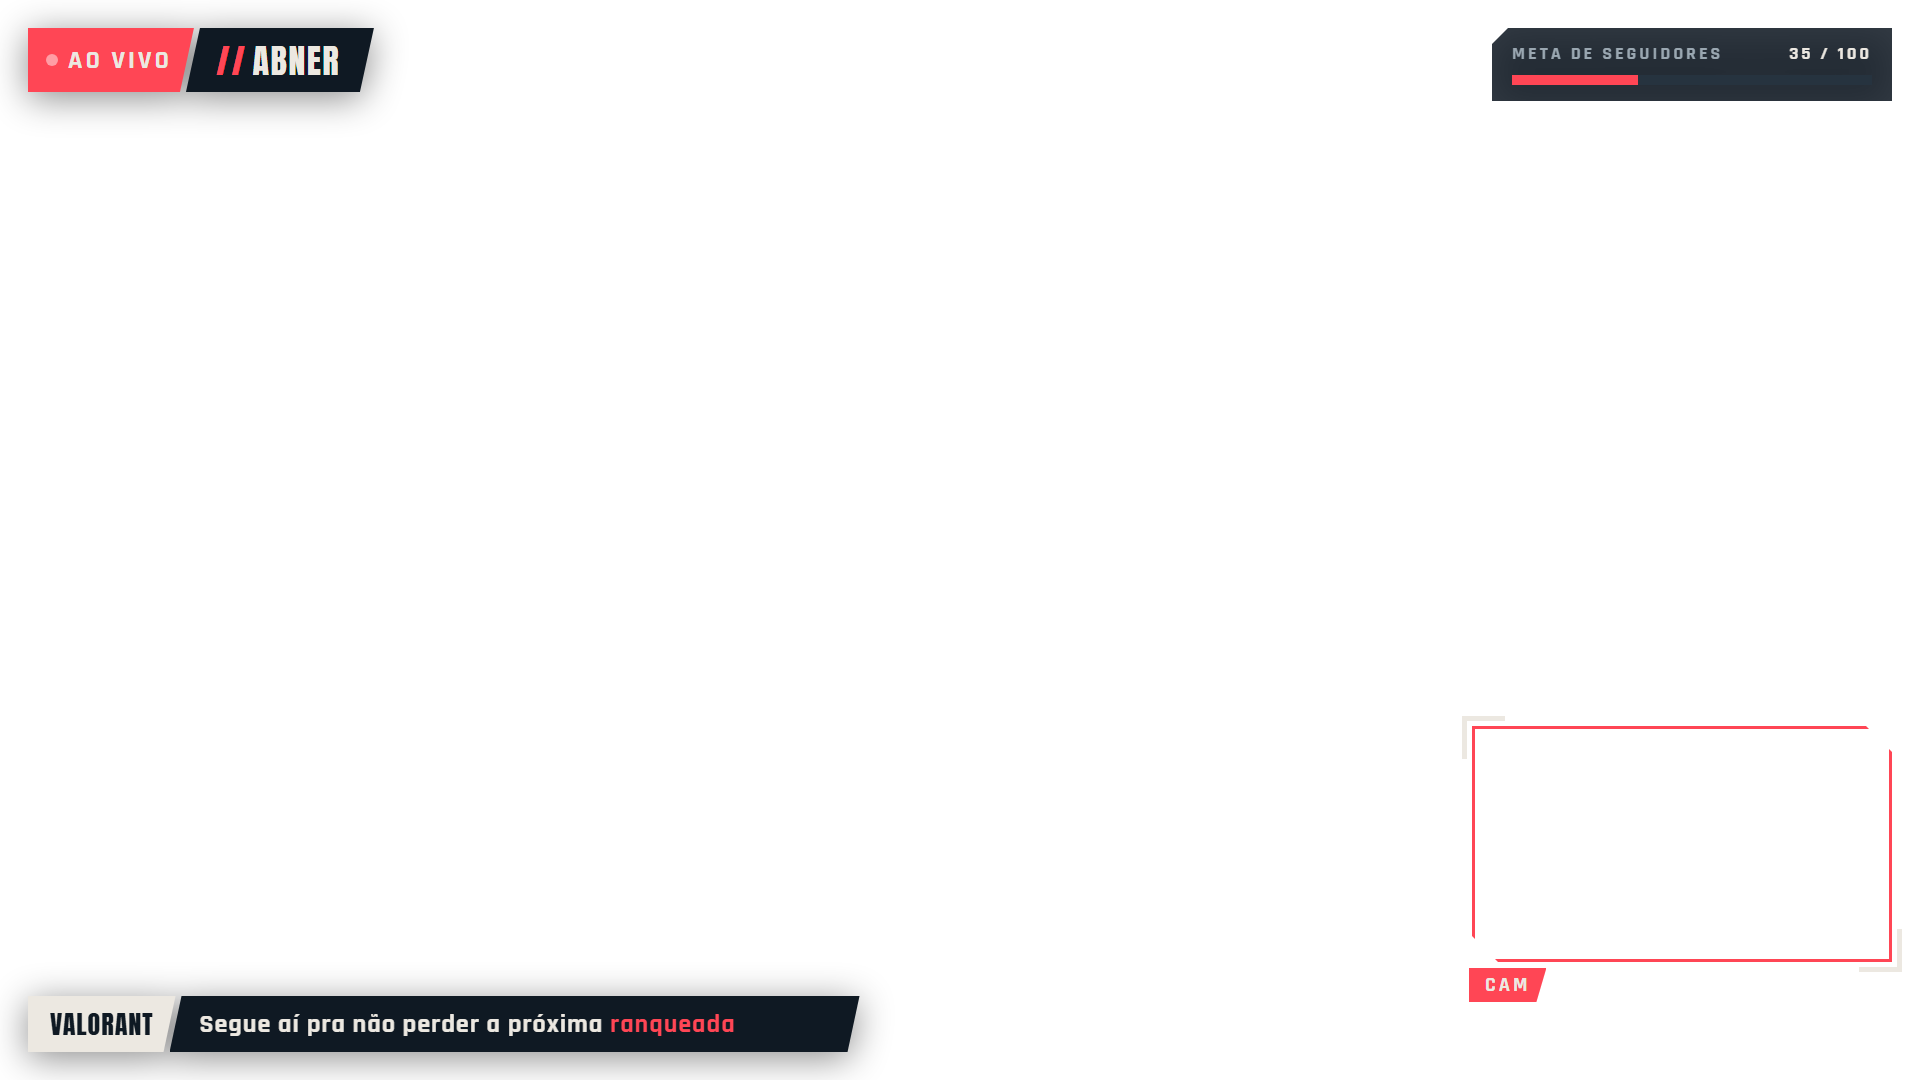
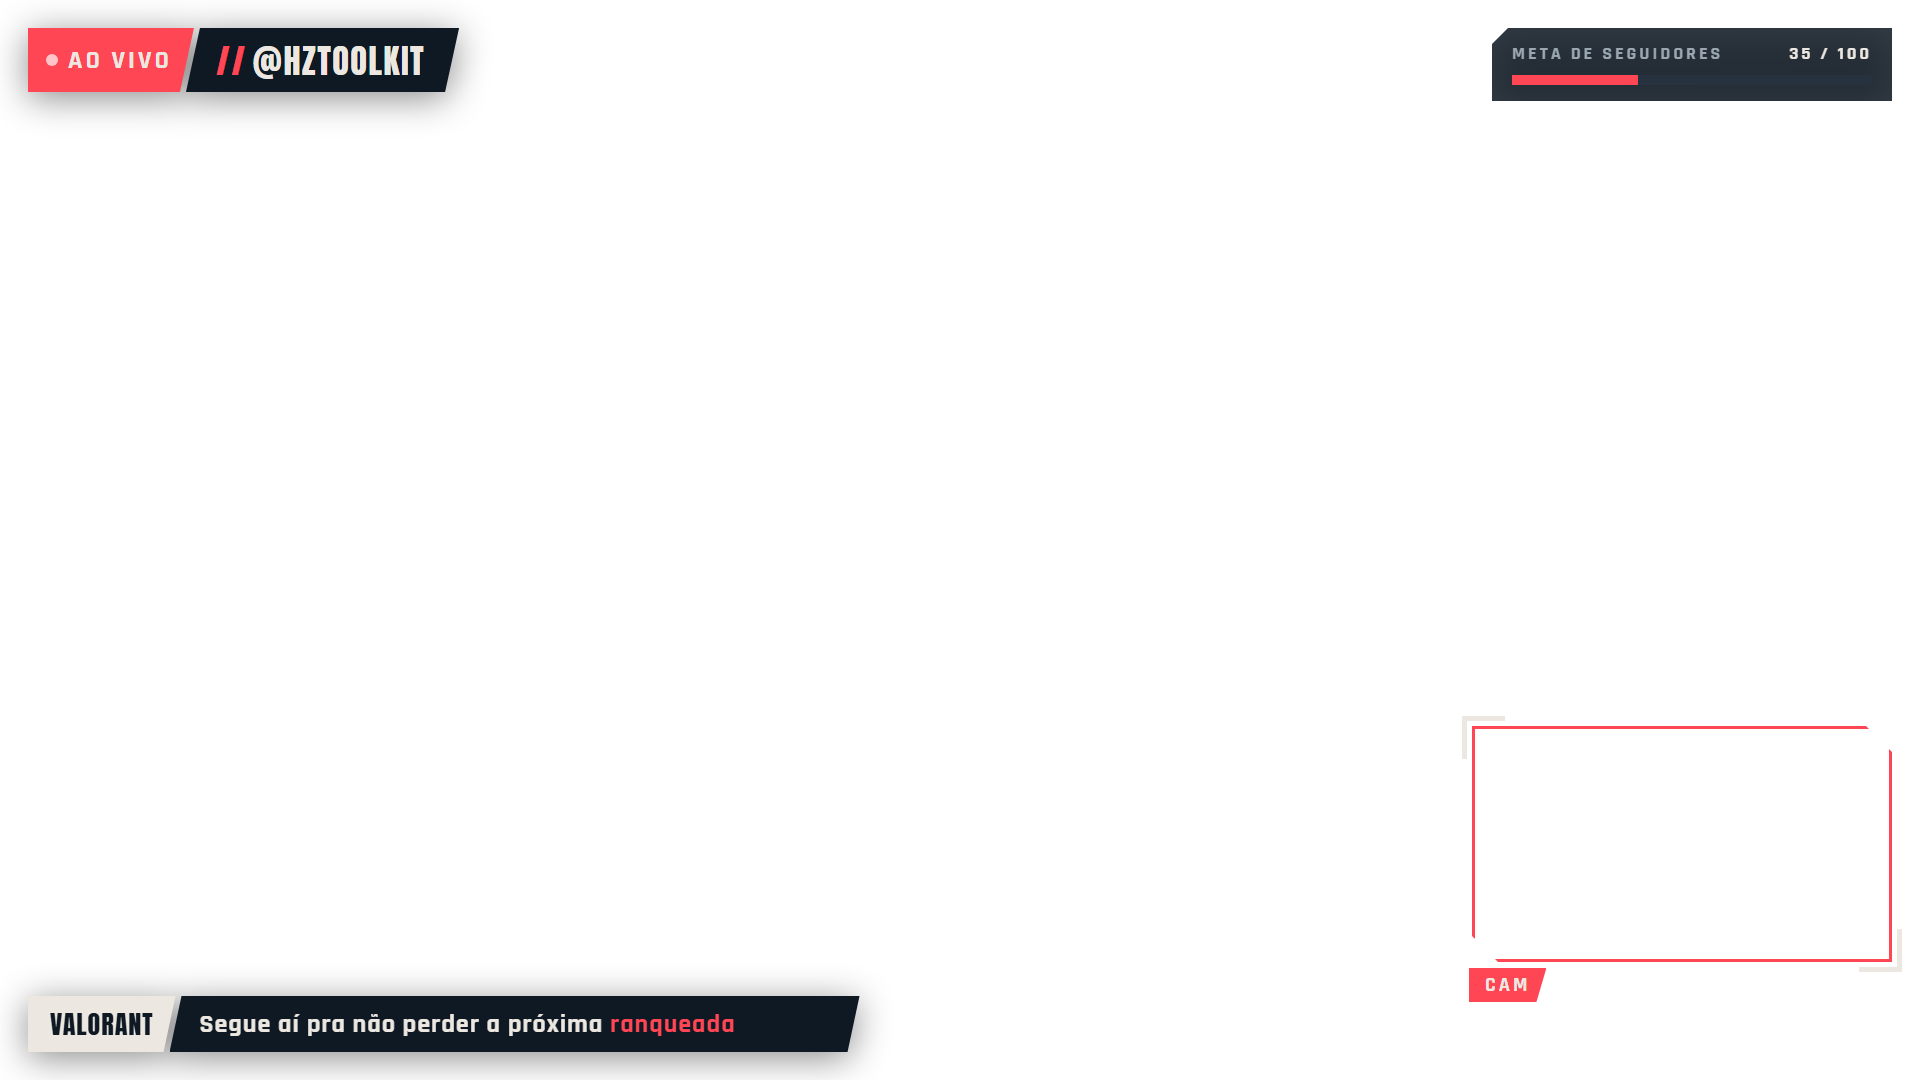
Versao 9:16 e nome @hztoolkit

Changed region(s): [[0.125, 0.0, 0.25, 0.1222]]

diff --git a/index.html b/index.html
@@ -7,7 +7,7 @@
 <style>
   /* Fundo TRANSPARENTE — use como fonte "Link"/"Navegador" em 1920x1080 */
   :root { --red:#ff4655; --navy:#0f1923; --ice:#ece8e1; --mint:#3de2b4; }
-  html,body{margin:0;width:1920px;height:1080px;background:transparent;overflow:hidden;
+  html,body{margin:0;width:100vw;height:100vh;background:transparent;overflow:hidden;
     font-family:'Rajdhani',sans-serif;color:var(--ice)}
 
   /* ---------- barra superior ---------- */
@@ -54,6 +54,21 @@
   .goal .t b{color:var(--ice)}
   .goal .track{height:10px;background:#26333f;margin-top:10px;position:relative}
   .goal .fill{position:absolute;inset:0 auto 0 0;background:var(--red);width:0;transition:width 1s}
+  .game{display:none}
+
+  /* ---------- 9:16 (1080x1920) — fora das áreas que o app do TikTok cobre ---------- */
+  @media (orientation:portrait){
+    html,body{width:1080px;height:1920px}
+    .top{top:210px;left:40px}
+    .goal{top:300px;left:40px;right:auto;width:420px}
+    .bar{top:440px;left:40px;bottom:auto}
+    .bar .msg{min-width:0;width:690px}
+    .game{display:block;position:absolute;left:0;right:0;top:540px;height:608px}
+    .game::before,.game::after{content:"";position:absolute;left:0;right:0;height:6px;background:var(--red)}
+    .game::before{top:-6px}.game::after{bottom:-6px}
+    .cam{top:1200px;bottom:auto;left:300px;right:auto;width:480px;height:270px}
+    .cam .tag{left:auto;right:-3px;bottom:auto;top:-40px}
+  }
 </style>
 </head>
 <body>
@@ -68,6 +83,8 @@
     <div class="track"><div class="fill" id="gfill"></div></div>
   </div>
 
+  <div class="game"></div>
+
   <div class="cam">
     <div class="frame"></div><div class="corner c1"></div><div class="corner c2"></div>
     <div class="tag">CAM</div>
@@ -81,7 +98,7 @@
 <script>
   // Personalize pela URL: overlay.html?nome=abner&meta=100&atual=12&cam=0
   const p = new URLSearchParams(location.search);
-  document.getElementById('nome').textContent = (p.get('nome') || 'SEU_NOME').toUpperCase();
+  document.getElementById('nome').textContent = (p.get('nome') || '@hztoolkit').toUpperCase();
   if (p.get('cam') === '0') document.querySelector('.cam').style.display = 'none';
   const meta = +p.get('meta') || 100, atual = +p.get('atual') || 0;
   document.getElementById('gtxt').textContent = atual + ' / ' + meta;

diff --git a/overlay.html b/overlay.html
@@ -7,7 +7,7 @@
 <style>
   /* Fundo TRANSPARENTE — use como fonte "Link"/"Navegador" em 1920x1080 */
   :root { --red:#ff4655; --navy:#0f1923; --ice:#ece8e1; --mint:#3de2b4; }
-  html,body{margin:0;width:1920px;height:1080px;background:transparent;overflow:hidden;
+  html,body{margin:0;width:100vw;height:100vh;background:transparent;overflow:hidden;
     font-family:'Rajdhani',sans-serif;color:var(--ice)}
 
   /* ---------- barra superior ---------- */
@@ -54,6 +54,21 @@
   .goal .t b{color:var(--ice)}
   .goal .track{height:10px;background:#26333f;margin-top:10px;position:relative}
   .goal .fill{position:absolute;inset:0 auto 0 0;background:var(--red);width:0;transition:width 1s}
+  .game{display:none}
+
+  /* ---------- 9:16 (1080x1920) — fora das áreas que o app do TikTok cobre ---------- */
+  @media (orientation:portrait){
+    html,body{width:1080px;height:1920px}
+    .top{top:210px;left:40px}
+    .goal{top:300px;left:40px;right:auto;width:420px}
+    .bar{top:440px;left:40px;bottom:auto}
+    .bar .msg{min-width:0;width:690px}
+    .game{display:block;position:absolute;left:0;right:0;top:540px;height:608px}
+    .game::before,.game::after{content:"";position:absolute;left:0;right:0;height:6px;background:var(--red)}
+    .game::before{top:-6px}.game::after{bottom:-6px}
+    .cam{top:1200px;bottom:auto;left:300px;right:auto;width:480px;height:270px}
+    .cam .tag{left:auto;right:-3px;bottom:auto;top:-40px}
+  }
 </style>
 </head>
 <body>
@@ -68,6 +83,8 @@
     <div class="track"><div class="fill" id="gfill"></div></div>
   </div>
 
+  <div class="game"></div>
+
   <div class="cam">
     <div class="frame"></div><div class="corner c1"></div><div class="corner c2"></div>
     <div class="tag">CAM</div>
@@ -81,7 +98,7 @@
 <script>
   // Personalize pela URL: overlay.html?nome=abner&meta=100&atual=12&cam=0
   const p = new URLSearchParams(location.search);
-  document.getElementById('nome').textContent = (p.get('nome') || 'SEU_NOME').toUpperCase();
+  document.getElementById('nome').textContent = (p.get('nome') || '@hztoolkit').toUpperCase();
   if (p.get('cam') === '0') document.querySelector('.cam').style.display = 'none';
   const meta = +p.get('meta') || 100, atual = +p.get('atual') || 0;
   document.getElementById('gtxt').textContent = atual + ' / ' + meta;
